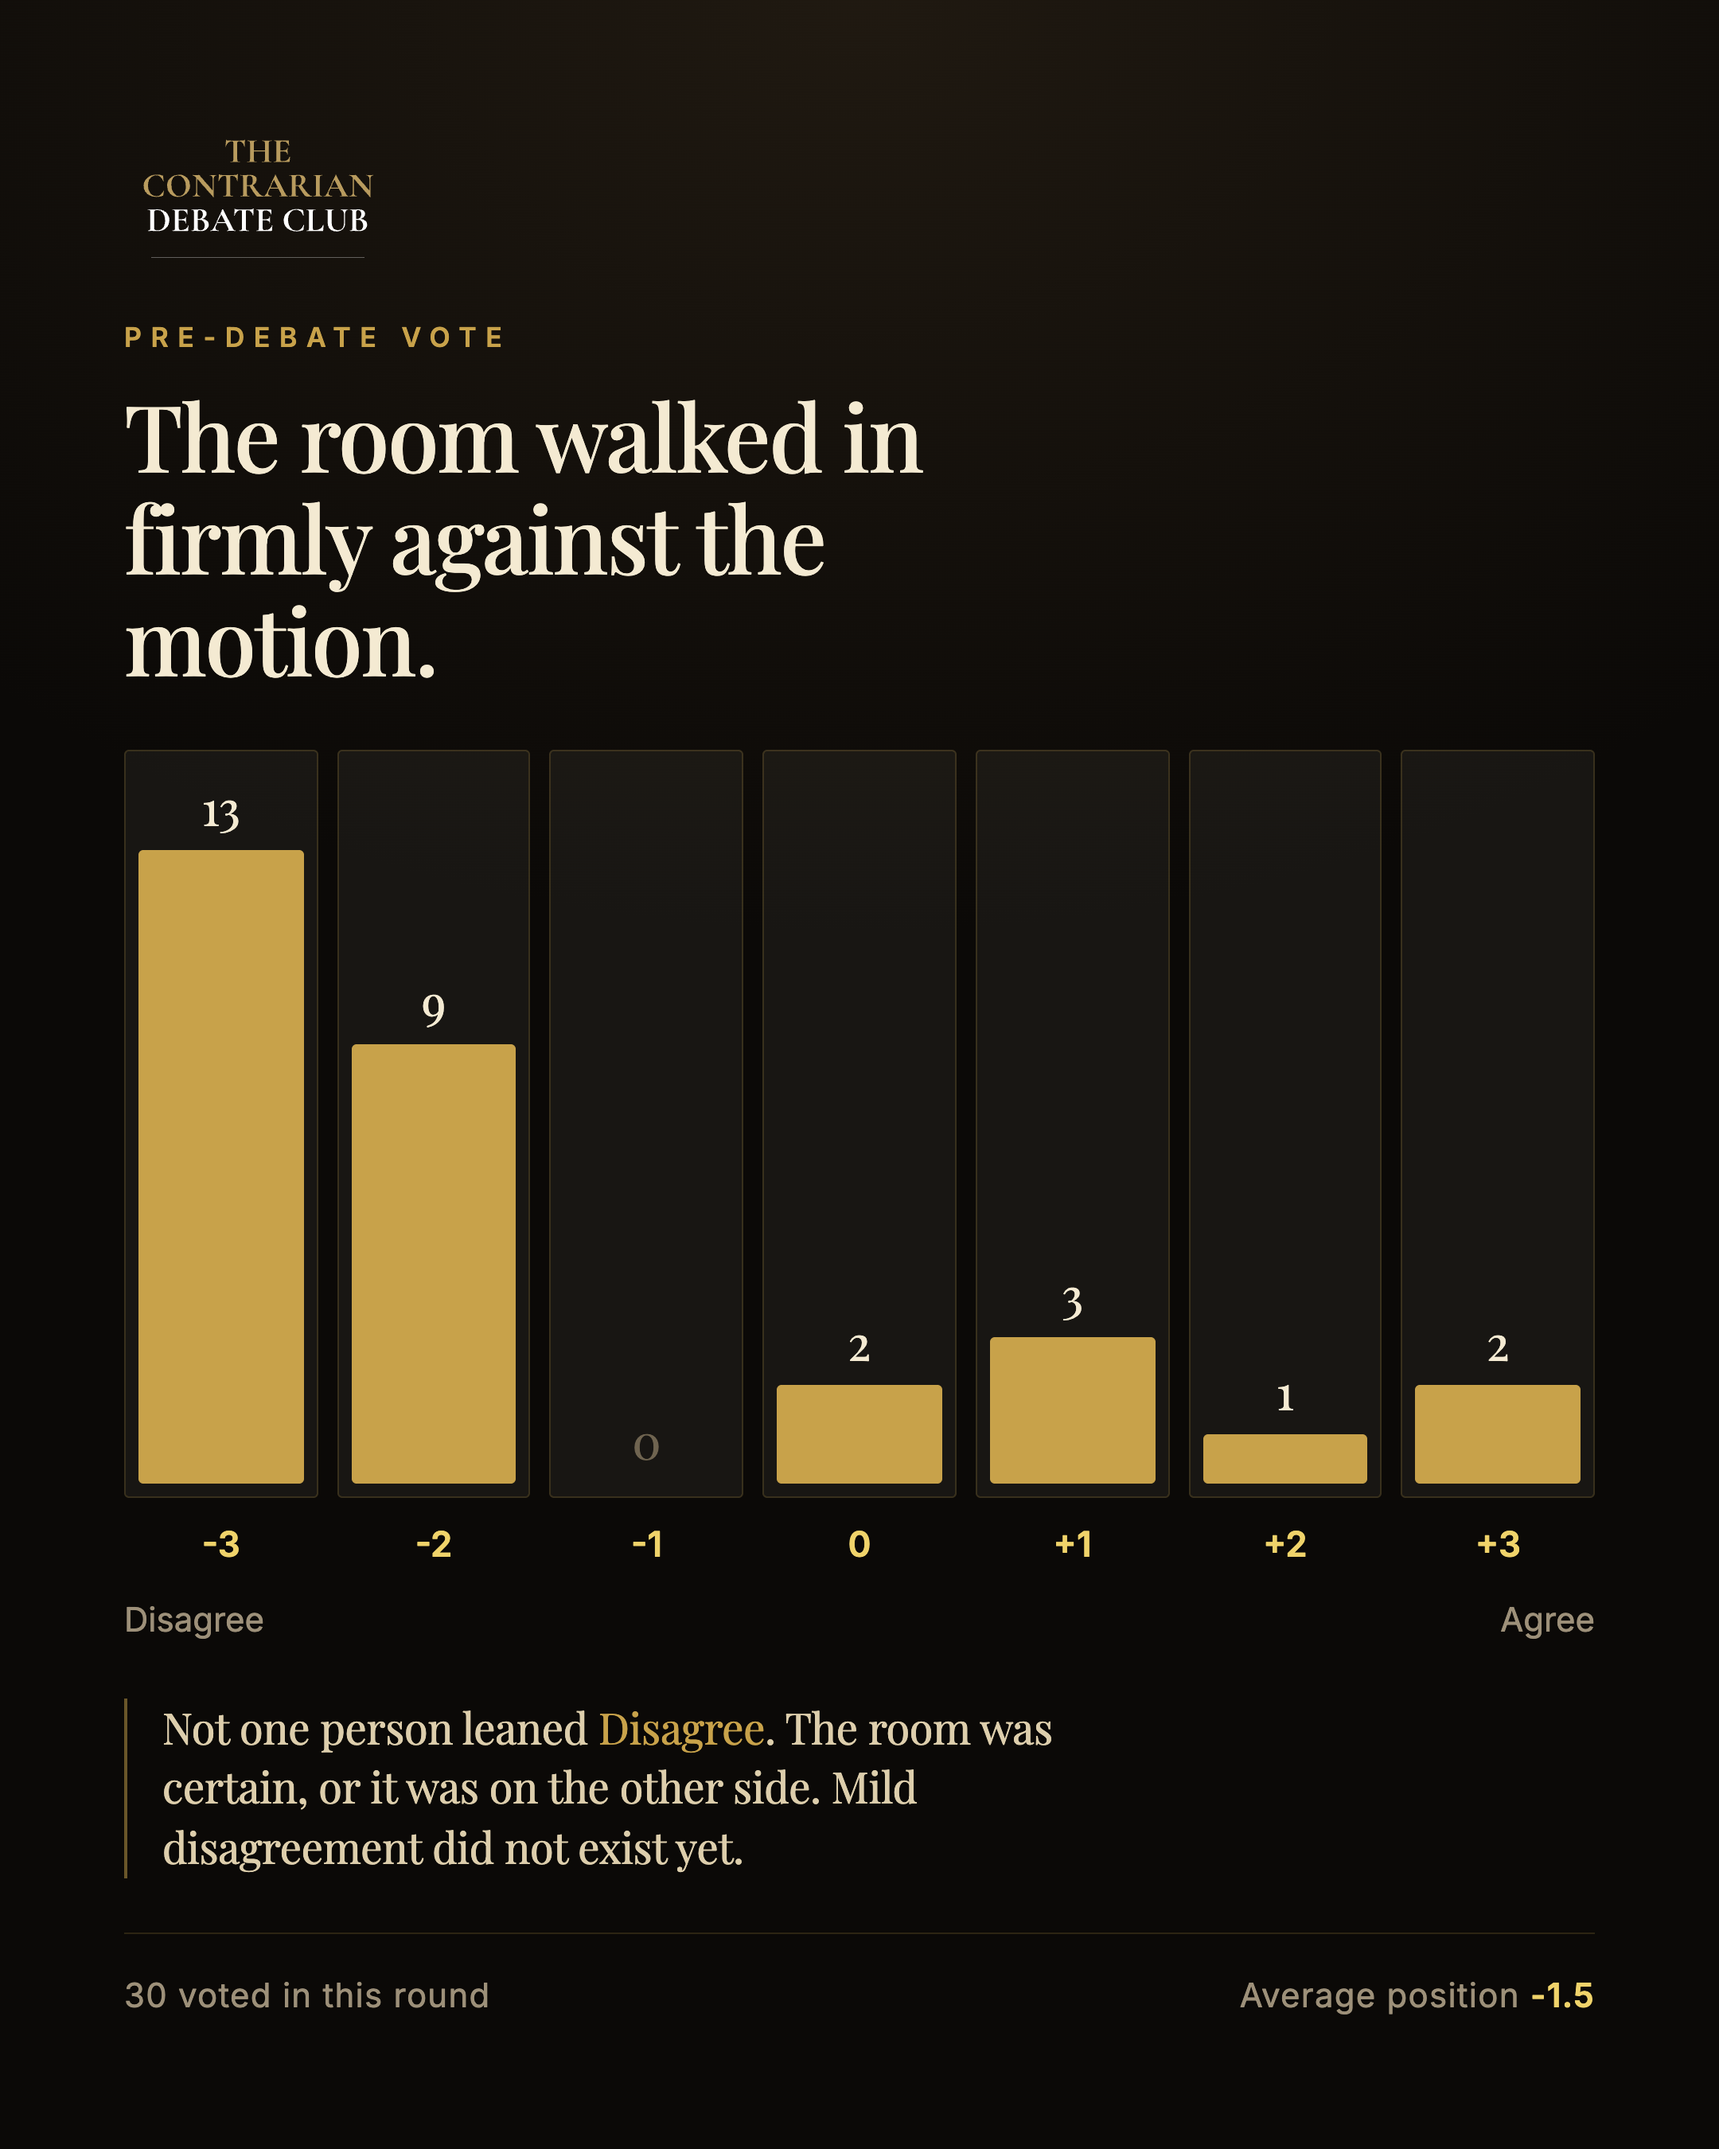
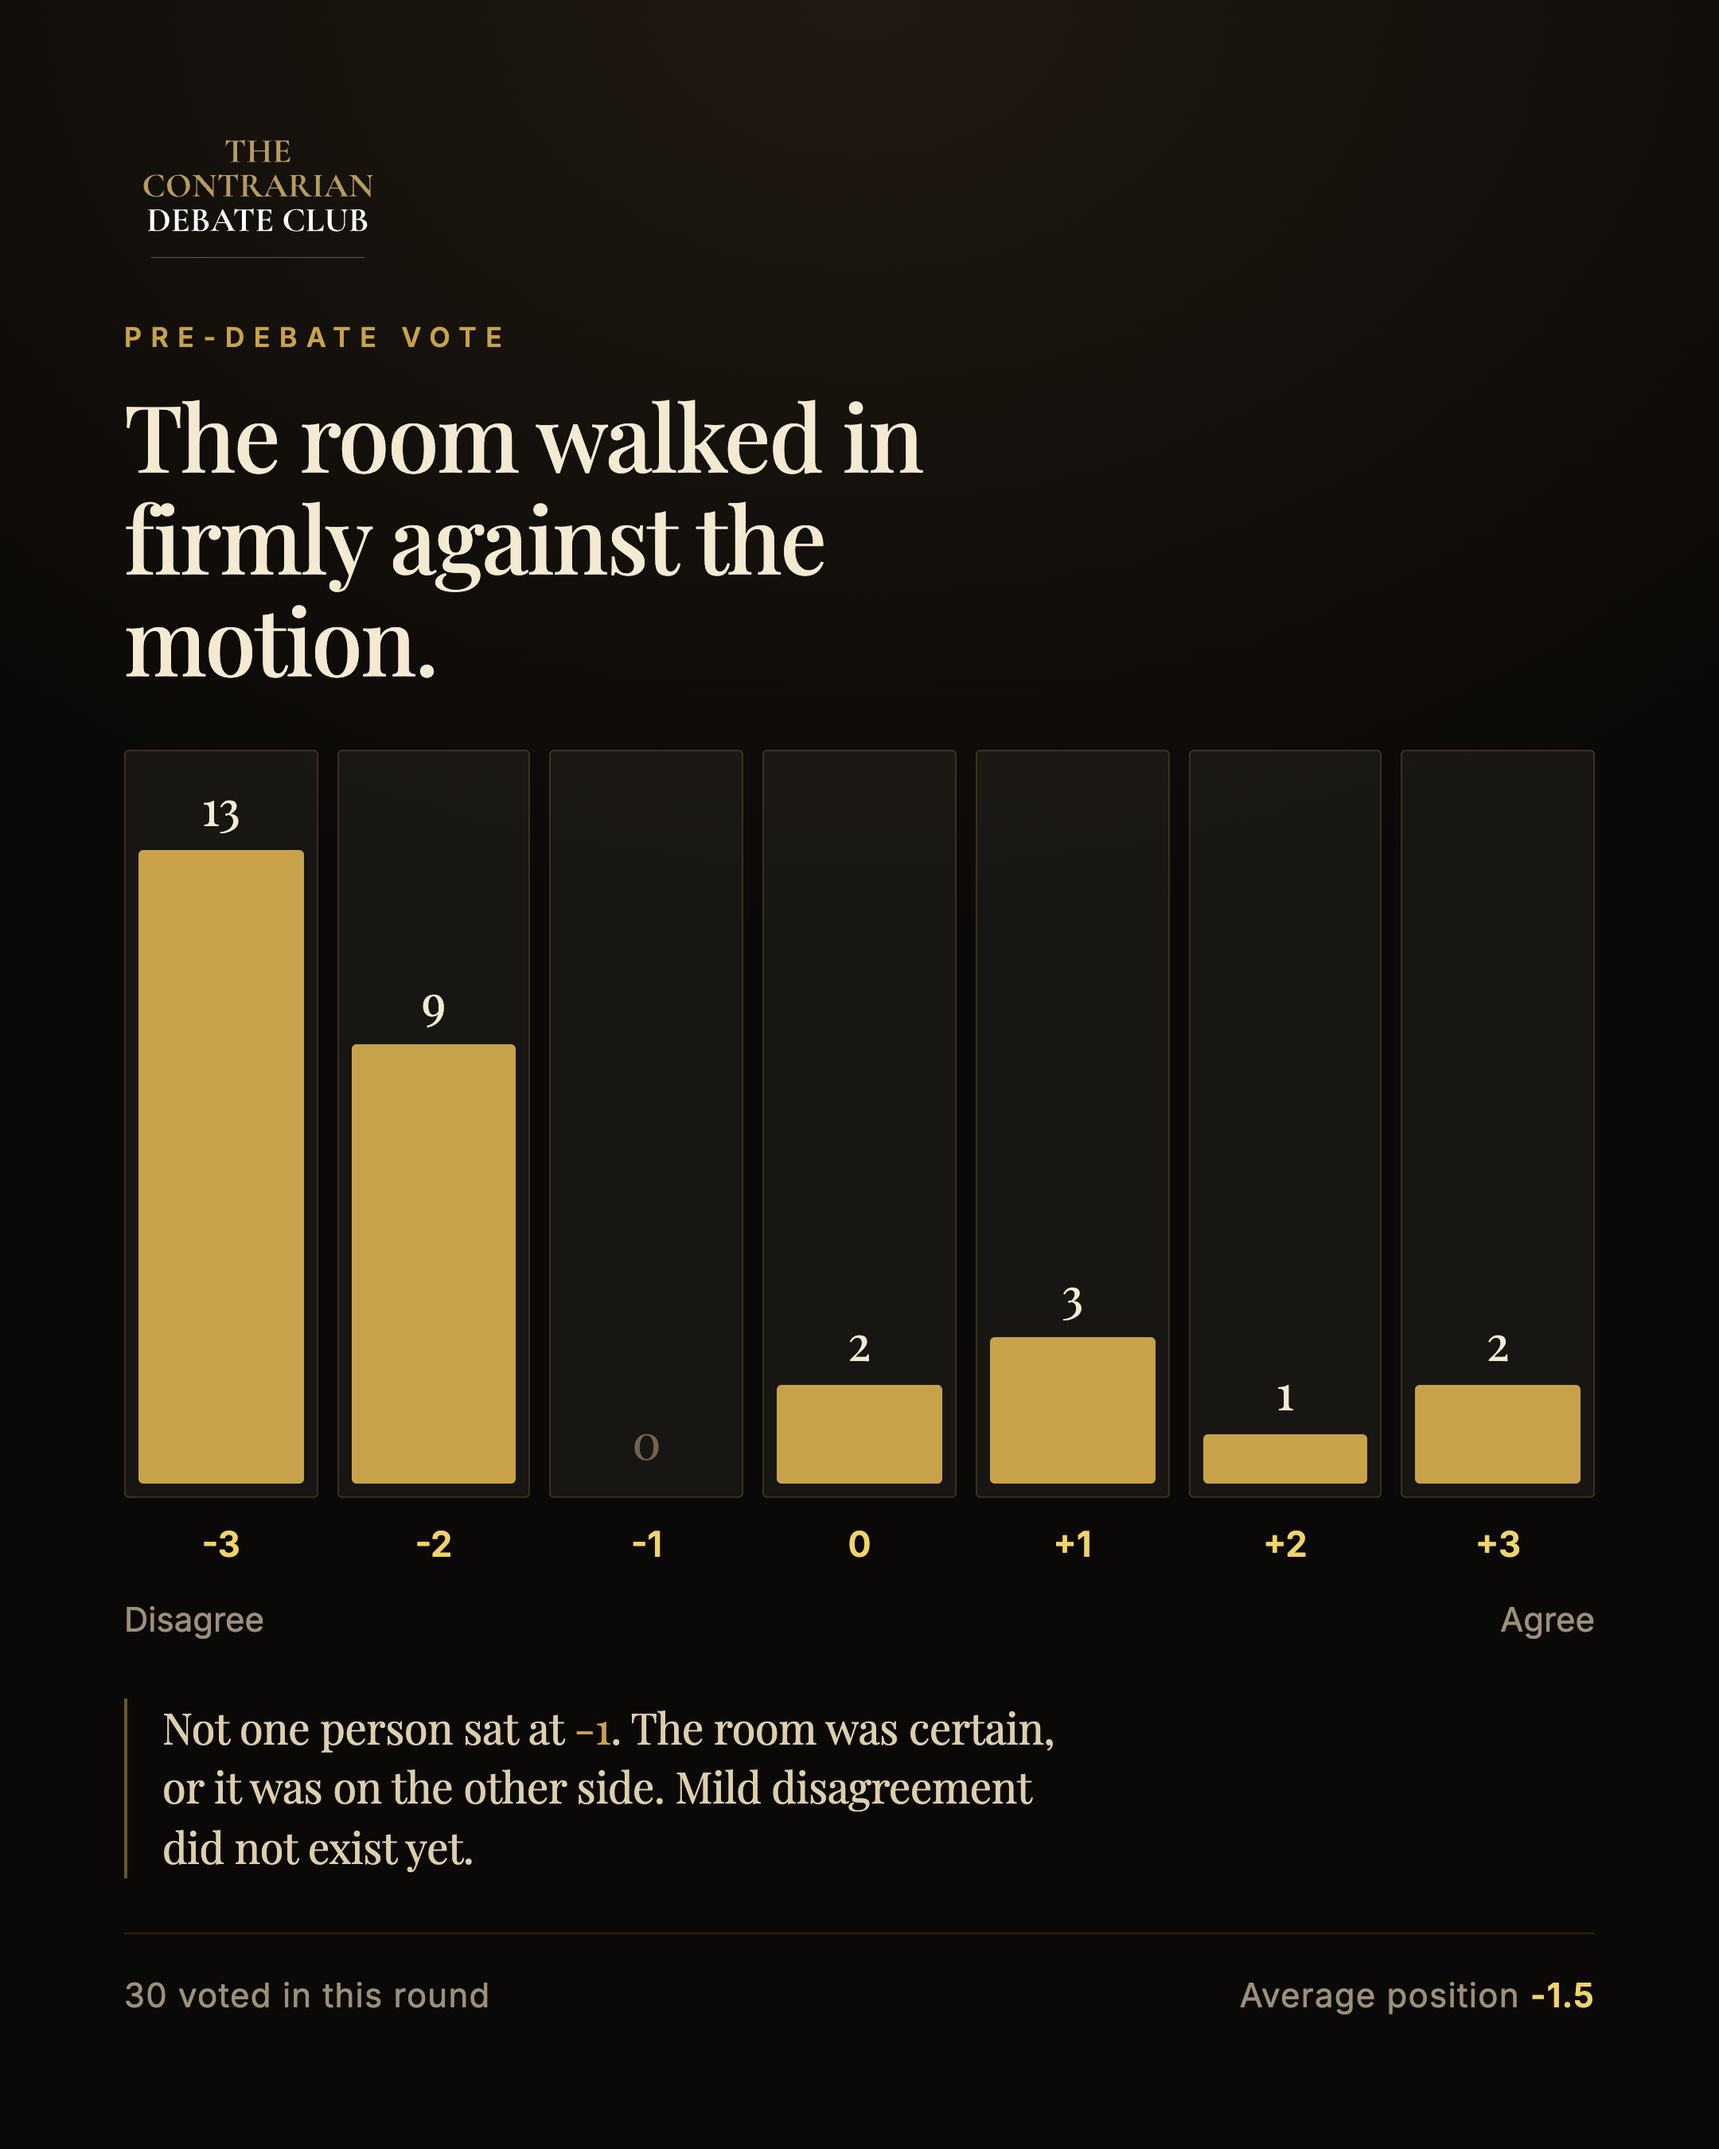
copy: name the empty column by its value, not its label
"Disagree" was the axis label, so the sentence read as if nobody
disagreed at all when the point is that nobody picked the mild option.

Changed region(s): [[0.0931, 0.7778, 0.6204, 0.8711]]

diff --git a/posters/works/2026-08-09-debate-8-recap/spec.tsx b/posters/works/2026-08-09-debate-8-recap/spec.tsx
@@ -89,8 +89,8 @@ const work: WorkSpec = {
           average={-1.5}
           fact={
             <>
-              Not one person leaned <G>Disagree</G>. The room was certain, or it was on the other
-              side. Mild disagreement did not exist yet.
+              Not one person sat at <G>-1</G>. The room was certain, or it was on the other side.
+              Mild disagreement did not exist yet.
             </>
           }
         />
